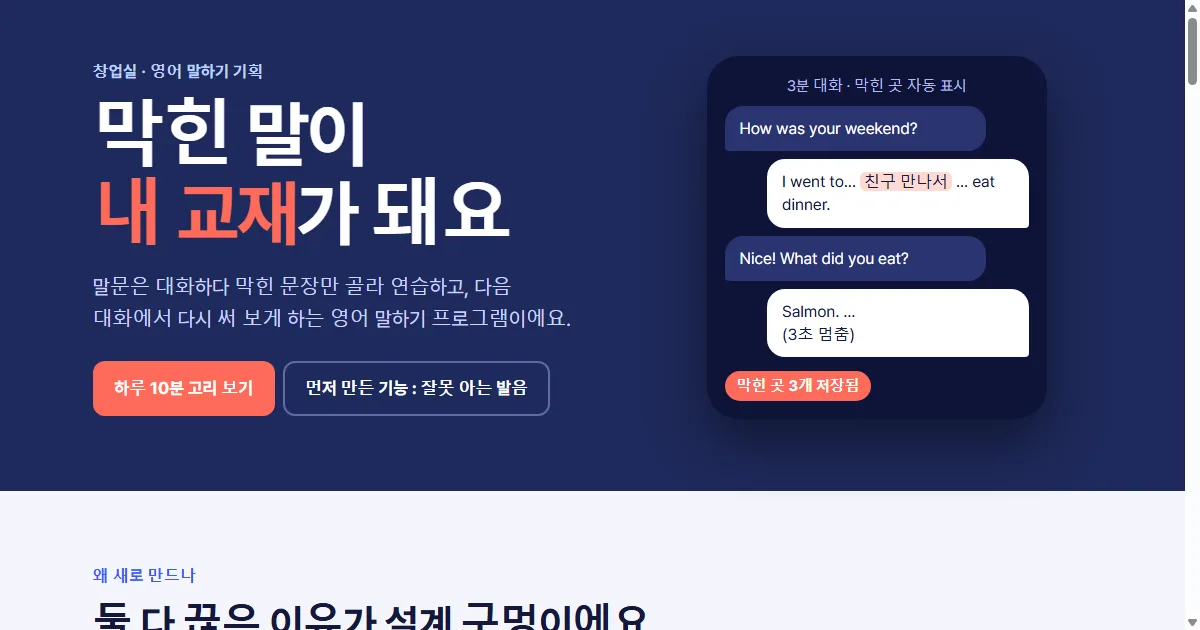
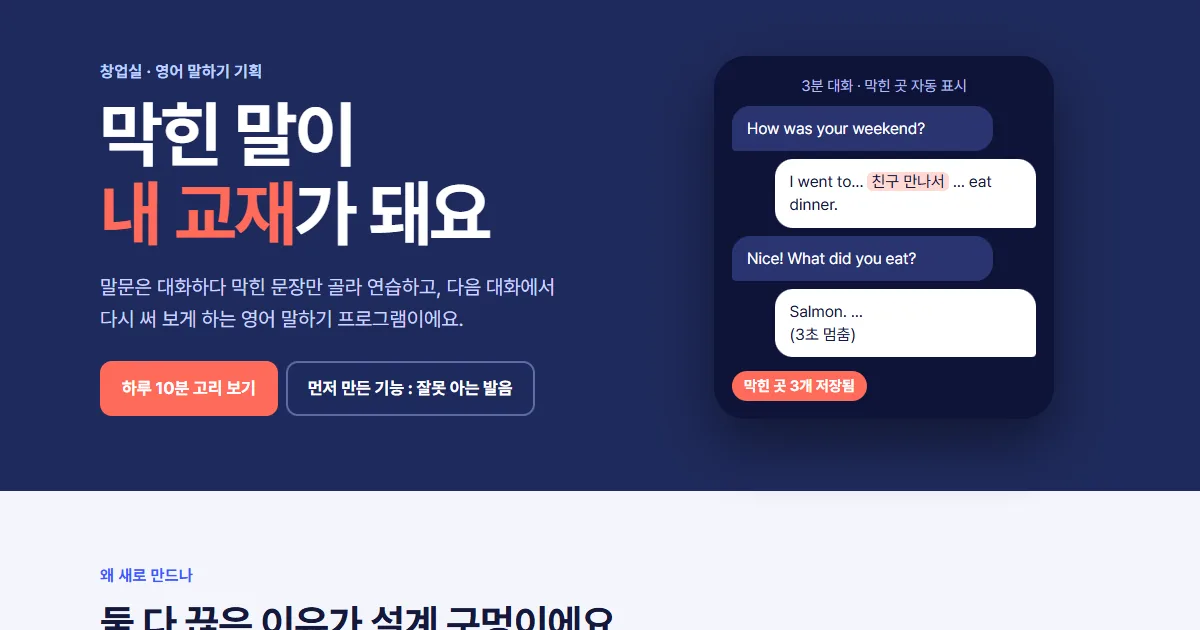
말문: 잘못 아는 발음 35단어(듣기·말해 보기·외운 단어 저장), 기획서 강세 예시 채움, 첫 화면 카드 좌우 번갈아 맞춤

diff --git a/malmun/pron/index.html b/malmun/pron/index.html
@@ -1,0 +1,185 @@
+<!doctype html>
+<html lang="ko">
+<head>
+<meta charset="utf-8">
+<meta name="viewport" content="width=device-width, initial-scale=1">
+<title>잘못 아는 발음 · 말문</title>
+<link rel="stylesheet" href="https://cdn.jsdelivr.net/gh/orioncactus/pretendard@v1.3.9/dist/web/variable/pretendardvariable-dynamic-subset.min.css">
+<link rel="stylesheet" href="https://fonts.googleapis.com/css2?family=IBM+Plex+Mono:wght@400;500&display=swap">
+<style>
+:root { --bg: #eef1f8; --card: #fff; --ink: #141722; --soft: #4a5068; --blue: #3557f5; --blue-bg: #e3e9ff; --red: #d93a40; --green: #13894f; --green-bg: #dcf3e6; --line: #d9deeb }
+@media (prefers-color-scheme: dark) { :root { --bg: #0f1118; --card: #1a1d28; --ink: #eef0f7; --soft: #a9afc4; --blue: #7d95ff; --blue-bg: #232b4d; --red: #ff6b70; --green: #45d08b; --green-bg: #173326; --line: #2c3142 } }
+* { box-sizing: border-box }
+body { margin: 0; min-height: 100vh; background: var(--bg); color: var(--ink); font: 400 17px/1.6 "Pretendard Variable", Pretendard, sans-serif; word-break: keep-all; -webkit-font-smoothing: antialiased }
+button { font: inherit; color: inherit; cursor: pointer; border: 0; background: none }
+main { max-width: 560px; margin: 0 auto; padding: 20px 16px 40px }
+header { display: flex; align-items: baseline; justify-content: space-between; gap: 12px }
+header a { color: var(--soft); text-decoration: none; font-weight: 600; font-size: 15px }
+h1 { margin: 0; font-size: 22px; font-weight: 750; letter-spacing: -.02em }
+.count { font: 500 14px "IBM Plex Mono", monospace; color: var(--soft) }
+.bar { height: 6px; margin: 14px 0 18px; background: var(--line); border-radius: 3px; overflow: hidden }
+.bar i { display: block; height: 100%; width: 0; background: var(--blue); transition: width .3s }
+.chips { display: flex; gap: 8px; overflow-x: auto; scrollbar-width: none; margin-bottom: 16px }
+.chips button { flex: none; padding: 7px 14px; border-radius: 99px; background: var(--card); font-weight: 600; font-size: 15px; color: var(--soft) }
+.chips button[aria-pressed=true] { background: var(--ink); color: var(--card) }
+.card { background: var(--card); border-radius: 22px; padding: 28px 24px 24px; box-shadow: 0 10px 30px -18px rgba(20, 30, 70, .35) }
+.tag { display: inline-block; padding: 3px 10px; border-radius: 6px; background: var(--blue-bg); color: var(--blue); font-weight: 700; font-size: 14px }
+.word { margin: 18px 0 2px; font-size: clamp(44px, 13vw, 64px); font-weight: 750; letter-spacing: -.03em; line-height: 1.05 }
+.word s { text-decoration: none; color: var(--red); opacity: .45 }
+.mean { color: var(--soft); font-weight: 500 }
+.ask { display: block; width: 100%; margin-top: 26px; padding: 16px; border-radius: 14px; background: var(--blue); color: #fff; font-weight: 700; font-size: 18px }
+.ans { margin-top: 22px; display: grid; gap: 14px }
+.ans[hidden], .ask[hidden] { display: none }
+.wrong { color: var(--red); font-size: 19px; font-weight: 600 }
+.wrong del { text-decoration-thickness: 2px }
+.right { display: flex; align-items: baseline; flex-wrap: wrap; gap: 6px 14px }
+.right strong { font-size: 34px; font-weight: 500; letter-spacing: -.02em }
+.right strong b { font-weight: 850; color: var(--blue) }
+.ipa { font: 400 16px "IBM Plex Mono", monospace; color: var(--soft) }
+.tip { margin: 0; padding: 12px 14px; border-radius: 12px; background: var(--bg); font-weight: 500 }
+.tools { display: flex; gap: 8px; flex-wrap: wrap }
+.tools button { display: inline-flex; align-items: center; gap: 6px; padding: 10px 16px; border-radius: 12px; background: var(--blue-bg); color: var(--blue); font-weight: 700 }
+.tools button.on { background: var(--red); color: #fff }
+.heard { margin: 0; font-weight: 600 }
+.heard:empty { display: none }
+.heard.ok { color: var(--green) }
+.heard.no { color: var(--red) }
+.next { display: grid; grid-template-columns: 1fr 1fr; gap: 10px; margin-top: 6px }
+.next button { padding: 15px; border-radius: 14px; font-weight: 700; font-size: 17px }
+.again { background: var(--bg) }
+.got { background: var(--green-bg); color: var(--green) }
+.done { text-align: center; padding: 40px 24px }
+.done p { font-size: 40px; font-weight: 800; margin: 0 0 4px; letter-spacing: -.03em }
+.done button { margin-top: 24px; padding: 14px 26px; border-radius: 14px; background: var(--blue); color: #fff; font-weight: 700 }
+</style>
+</head>
+<body>
+<main>
+  <header><h1>잘못 아는 발음</h1><a href="../plan/">말문</a></header>
+  <div class="bar"><i id="bar"></i></div>
+  <div class="chips" id="chips" role="group" aria-label="함정 종류"></div>
+  <section class="card" id="card" aria-live="polite"></section>
+  <p class="count" id="count"></p>
+</main>
+<script>
+// 데이터: [단어, 뜻, 흔히 읽는 법, 실제(굵게=[강세]), 발음기호(미국식), 종류, 외우는 요령]
+// 단어 속 (괄호) = 소리 안 나는 글자 / 줄어드는 소리
+const W = [
+  ["sa(l)mon", "연어", "살몬", "[새]먼", "ˈsæmən", "묵음", "l은 쓰기만 하고 소리는 없어요."],
+  ["recei(p)t", "영수증", "리시프트", "리[시]트", "rɪˈsiːt", "묵음", "p는 소리 없이 '리싯'에 가까워요."],
+  ["i(s)land", "섬", "아이슬랜드", "[아일]런드", "ˈaɪlənd", "묵음", "s는 소리 없어요. 아이슬란드(Iceland)와 달라요."],
+  ["debu(t)", "데뷔", "데뷰트", "데이[뷰]", "deɪˈbjuː", "묵음", "프랑스어에서 온 말이라 끝 t를 읽지 않아요."],
+  ["su(b)tle", "미묘한", "서브틀", "[서]틀", "ˈsʌtl", "묵음", "b는 소리 없어요."],
+  ["dou(b)t", "의심", "다우브트", "다웃", "daʊt", "묵음", "b는 소리 없어요. debt(빚, '뎃')도 같아요."],
+  ["mus(c)le", "근육", "머스클", "[머]슬", "ˈmʌsl", "묵음", "c는 소리 없어요. 홍합 mussel과 소리가 같아요."],
+  ["cas(t)le", "성", "캐스틀", "[캐]슬", "ˈkæsl", "묵음", "t는 소리 없어요. listen, whistle도 같아요."],
+  ["s(w)ord", "칼", "스워드", "소어드", "sɔːrd", "묵음", "w는 소리 없어요."],
+  ["We(d)n(e)sday", "수요일", "웨드네스데이", "[웬]즈데이", "ˈwenzdeɪ", "묵음", "d와 가운데 e를 건너뛰어 '웬즈'로 시작해요."],
+  ["ya(ch)t", "요트", "요트", "얏", "jɑːt", "외래어", "ch는 소리 없어요. '야'로 시작해요."],
+  ["label", "상표", "라벨", "[레이]블", "ˈleɪbl", "외래어", "a를 '에이'로 읽어요."],
+  ["allergy", "알레르기", "알레르기", "[앨]러지", "ˈælərdʒi", "외래어", "알레르기는 독일어 발음이에요."],
+  ["buffe(t)", "뷔페", "뷔페", "버[페이]", "bəˈfeɪ", "외래어", "끝 t는 소리 없고 뒤를 세게 읽어요."],
+  ["theme", "주제", "테마", "띰", "θiːm", "외래어", "th는 혀끝을 이 사이에 살짝 넣고 내는 소리예요."],
+  ["radio", "라디오", "라디오", "[레이]디오", "ˈreɪdioʊ", "외래어", "a를 '에이'로 읽어요."],
+  ["model", "모델", "모델", "[마]들", "ˈmɑːdl", "외래어", "o를 '아'에 가깝게 읽어요."],
+  ["vitamin", "비타민", "비타민", "[바이]터민", "ˈvaɪtəmɪn", "외래어", "i를 '아이'로 읽어요. 영국에선 '비터민'이에요."],
+  ["margarine", "마가린", "마가린", "[마]저린", "ˈmɑːrdʒərɪn", "외래어", "g를 'ㅈ' 소리로 읽어요."],
+  ["vinyl", "비닐", "비닐", "[바이]늘", "ˈvaɪnl", "외래어", "y를 '아이'로 읽어요."],
+  ["coco(a)", "코코아", "코코아", "[코우]코우", "ˈkoʊkoʊ", "외래어", "끝 a는 소리 없어요."],
+  ["ideology", "이념", "이데올로기", "아이디[알]러지", "ˌaɪdiˈɑːlədʒi", "외래어", "이데올로기는 독일어 발음이에요. i를 '아이'로 시작해요."],
+  ["ballet", "발레", "발레", "밸[레이]", "bæˈleɪ", "외래어", "끝 t는 소리 없고 뒤를 세게 읽어요."],
+  ["banana", "바나나", "바나나", "버[내]너", "bəˈnænə", "강세", "가운데만 세게, 앞뒤는 약하게 '어'로 흘려요."],
+  ["tomato", "토마토", "토마토", "터[메이]토", "təˈmeɪtoʊ", "강세", "가운데 '메이'를 세게 읽어요."],
+  ["hotel", "호텔", "호텔", "호우[텔]", "hoʊˈtel", "강세", "앞이 아니라 뒤 '텔'을 세게 읽어요."],
+  ["dessert", "디저트", "디저트", "디[저]트", "dɪˈzɜːrt", "강세", "뒤를 세게. 앞을 세게 '데저트'라 하면 사막(desert)이에요."],
+  ["garage", "차고", "개라지", "거[라]지", "ɡəˈrɑːʒ", "강세", "뒤 '라'를 세게, 앞은 '거'로 약하게요."],
+  ["photographer", "사진작가", "포토그래퍼", "퍼[타]그러퍼", "fəˈtɑːɡrəfər", "강세", "photo(포우토우)와 달리 두 번째를 세게 읽어요."],
+  ["comf(or)table", "편한", "컴포터블", "[컴]프터블", "ˈkʌmftərbl", "음절", "or가 빠져 3박자로 읽어요."],
+  ["veg(e)table", "채소", "베지터블", "[베]쥐터블", "ˈvedʒtəbl", "음절", "가운데 e가 빠져 3박자로 읽어요."],
+  ["choc(o)late", "초콜릿", "초콜릿", "[차]클릿", "ˈtʃɑːklət", "음절", "가운데 o가 빠져 2박자로 읽어요."],
+  ["diff(e)rent", "다른", "디퍼런트", "[디]프런트", "ˈdɪfrənt", "음절", "가운데 e가 빠져 2박자로 읽어요."],
+  ["fam(i)ly", "가족", "패밀리", "[팸]리", "ˈfæmli", "음절", "가운데 i가 거의 빠져 2박자로 읽어요."],
+  ["strike", "파업·치다", "스트라이크", "스트라잌", "straɪk", "음절", "'으'를 넣지 않고 한 박자에 붙여 읽어요. 5박자가 아니라 1박자예요."],
+];
+const TYPES = ["전체", "묵음", "외래어", "강세", "음절"];
+const NAMES = { 묵음: "소리 없는 글자", 외래어: "외래어와 달라요", 강세: "세게 읽는 곳", 음절: "박자 수" };
+const KEY = "malmun-pron-got";
+let got = new Set(); try { got = new Set(JSON.parse(localStorage.getItem(KEY)) || []) } catch {}
+const save = () => { try { localStorage.setItem(KEY, JSON.stringify([...got])) } catch {} };
+const plain = w => w.replace(/[()]/g, "");
+const $ = id => document.getElementById(id);
+let type = "전체", queue = [], total = 0;
+
+function start() {
+  const pool = W.filter(w => (type === "전체" || w[5] === type) && !got.has(plain(w[0])));
+  queue = pool.sort(() => Math.random() - .5); total = pool.length; show();
+}
+function show() {
+  $("bar").style.width = total ? (100 * (total - queue.length) / total) + "%" : "100%";
+  $("count").textContent = total ? `${total - queue.length} / ${total}` : "";
+  const c = $("card");
+  if (!queue.length) {
+    const n = W.filter(w => type === "전체" || w[5] === type).length;
+    c.innerHTML = `<div class="done"><p>${n}개 다 외웠어요</p><button id="reset">처음부터 다시</button></div>`;
+    $("reset").onclick = () => { W.forEach(w => (type === "전체" || w[5] === type) && got.delete(plain(w[0]))); save(); start() };
+    return;
+  }
+  const [w, mean, wrong, right, ipa, t, tip] = queue[0];
+  c.innerHTML = `<span class="tag">${NAMES[t]}</span>
+    <div class="word" lang="en">${w.replace(/\((.+?)\)/g, "<span class=q>$1</span>")}</div>
+    ${mean === wrong ? "" : `<div class="mean">${mean}</div>`}
+    <button class="ask" id="ask">어떻게 읽을까요?</button>
+    <div class="ans" id="ans" hidden>
+      <div class="wrong"><del>${wrong}</del> 아니고</div>
+      <div class="right"><strong>${right.replace(/\[(.+?)\]/g, "<b>$1</b>")}</strong><span class="ipa">/${ipa}/</span></div>
+      <p class="tip">${tip}</p>
+      <div class="tools"><button id="say">▶ 듣기</button><button id="slow">▶ 천천히</button>${Rec ? '<button id="mic">● 말해 보기</button>' : ""}</div>
+      <p class="heard" id="heard"></p>
+      <div class="next"><button class="again" id="again">다시 볼래요</button><button class="got" id="got">외웠어요</button></div>
+    </div>`;
+  $("ask").onclick = () => {
+    $("ask").hidden = true; $("ans").hidden = false;
+    c.querySelectorAll(".q").forEach(q => q.outerHTML = `<s>${q.textContent}</s>`);
+    speak(1);
+  };
+  $("say").onclick = () => speak(1);
+  $("slow").onclick = () => speak(.6);
+  if (Rec) $("mic").onclick = listen;
+  $("again").onclick = () => { queue.splice(Math.min(3, queue.length), 0, queue.shift()); show() };
+  $("got").onclick = () => { got.add(plain(w)); save(); queue.shift(); show() };
+}
+function speak(rate) {
+  speechSynthesis.cancel();
+  const u = new SpeechSynthesisUtterance(plain(queue[0][0]));
+  u.lang = "en-US"; u.rate = rate;
+  const v = speechSynthesis.getVoices().find(v => v.lang === "en-US");
+  if (v) u.voice = v;
+  speechSynthesis.speak(u);
+}
+const Rec = window.SpeechRecognition || window.webkitSpeechRecognition;
+function listen() {
+  const target = plain(queue[0][0]).toLowerCase(), mic = $("mic"), out = $("heard");
+  const r = new Rec(); r.lang = "en-US"; r.maxAlternatives = 5;
+  mic.classList.add("on"); mic.textContent = "● 듣는 중"; out.className = "heard"; out.textContent = "";
+  r.onresult = e => {
+    const alts = [...e.results[0]].map(a => a.transcript.trim());
+    const ok = alts.some(a => a.toLowerCase().split(/\W+/).includes(target));
+    out.className = "heard " + (ok ? "ok" : "no");
+    out.textContent = ok ? "잘 알아들었어요" : `'${alts[0]}'(으)로 들렸어요`;
+  };
+  r.onerror = e => { out.className = "heard no"; out.textContent = e.error === "not-allowed" ? "마이크를 허용해 주세요" : "다시 말해 주세요" };
+  r.onend = () => { mic.classList.remove("on"); mic.textContent = "● 말해 보기" };
+  r.start();
+}
+$("chips").innerHTML = TYPES.map(t => `<button aria-pressed="${t === type}">${t === "전체" ? t : NAMES[t]}</button>`).join("");
+$("chips").onclick = e => {
+  const b = e.target.closest("button"); if (!b) return;
+  type = TYPES[[...$("chips").children].indexOf(b)];
+  [...$("chips").children].forEach(x => x.setAttribute("aria-pressed", x === b));
+  start();
+};
+speechSynthesis.getVoices();
+start();
+</script>
+</body>
+</html>

diff --git a/index.html b/index.html
@@ -414,16 +414,6 @@ figcaption { margin-top: 10px; color: var(--muted) }
   </article>
 
   <article class="g2 grid">
-    <a class="art mask" href="mardi/motion-study/"><img src="hub/shots/mardi-motion.webp" alt="마디 캐릭터가 달리다 뛰어오른 게임 화면" width="1280" height="800" loading="lazy"></a>
-    <div class="txt">
-      <h3 class="rise">마디 움직임 비교</h3>
-      <p class="rise" style="--i:1">마디 캐릭터의 조정값 15개를 사람 모캡 154개, 논문, 디아블로·로스트아크, 엘든 링·몬헌 같은 3인칭 액션 게임과 나란히 놓은 표. 사람 숫자, 게임별 타이밍, 아직 없는 동작까지.</p>
-      <p class="meta mono rise" style="--i:2">모션캡처 측정 · 게임 프레임 측정 · 조사</p>
-      <a class="more rise" style="--i:3" href="mardi/motion-study/">비교표 보기 <span class="ic" data-icon="arrow-right" data-size="18">→</span></a>
-    </div>
-  </article>
-
-  <article class="g2 flip grid">
     <a class="art mask" href="malmun/plan/"><img src="hub/shots/malmun.webp" alt="말문 기획서 첫 화면, 영어 대화에서 막힌 곳이 저장되는 모습" width="1200" height="630" loading="lazy"></a>
     <div class="txt">
       <h3 class="rise">말문</h3>
@@ -434,6 +424,16 @@ figcaption { margin-top: 10px; color: var(--muted) }
   </article>
 
   <article class="g2 flip grid">
+    <a class="art mask" href="mardi/motion-study/"><img src="hub/shots/mardi-motion.webp" alt="마디 캐릭터가 달리다 뛰어오른 게임 화면" width="1280" height="800" loading="lazy"></a>
+    <div class="txt">
+      <h3 class="rise">마디 움직임 비교</h3>
+      <p class="rise" style="--i:1">마디 캐릭터의 조정값 15개를 사람 모캡 154개, 논문, 디아블로·로스트아크, 엘든 링·몬헌 같은 3인칭 액션 게임과 나란히 놓은 표. 사람 숫자, 게임별 타이밍, 아직 없는 동작까지.</p>
+      <p class="meta mono rise" style="--i:2">모션캡처 측정 · 게임 프레임 측정 · 조사</p>
+      <a class="more rise" style="--i:3" href="mardi/motion-study/">비교표 보기 <span class="ic" data-icon="arrow-right" data-size="18">→</span></a>
+    </div>
+  </article>
+
+  <article class="g2 grid">
     <a class="art mask" href="jobmap/"><img src="hub/shots/jobmap-cover.webp" alt="학과 진로 지도 첫 장" width="1200" height="630" loading="lazy"></a>
     <div class="txt">
       <h3 class="rise">학과 진로 지도</h3>
@@ -443,7 +443,7 @@ figcaption { margin-top: 10px; color: var(--muted) }
     </div>
   </article>
 
-  <article class="g2 grid">
+  <article class="g2 flip grid">
     <a class="art mask" href="ffb-wheel/"><img src="hub/shots/ffb-cover.webp" alt="포스 피드백 레이싱 휠 발표 첫 장" width="1280" height="721" loading="lazy"></a>
     <div class="txt">
       <h3 class="rise">레이싱 휠</h3>
@@ -453,7 +453,7 @@ figcaption { margin-top: 10px; color: var(--muted) }
     </div>
   </article>
 
-  <article class="g2 flip grid">
+  <article class="g2 grid">
     <a class="art mask" href="ffb-wheel/parts/"><img src="hub/shots/ffb-parts.webp" alt="레이싱 휠 주차별 파트 분배 첫 화면" width="1280" height="800" loading="lazy"></a>
     <div class="txt">
       <h3 class="rise">주차별 파트 분배</h3>
@@ -463,7 +463,7 @@ figcaption { margin-top: 10px; color: var(--muted) }
     </div>
   </article>
 
-  <article class="g2 grid">
+  <article class="g2 flip grid">
     <a class="art mask" href="ffb-wheel/pedal/"><img src="hub/shots/ffb-pedal.webp" alt="집성목으로 만든 액셀 페달 3D 모델과 부품 이름표" width="1280" height="800" loading="lazy"></a>
     <div class="txt">
       <h3 class="rise">액셀 페달 3D</h3>
@@ -473,7 +473,7 @@ figcaption { margin-top: 10px; color: var(--muted) }
     </div>
   </article>
 
-  <article class="g2 flip grid">
+  <article class="g2 grid">
     <a class="art mask" href="ffb-report/"><img src="hub/shots/ffb-report.webp" alt="창공설 주차 보고서 첫 화면(흐리게)" width="1280" height="800" loading="lazy"></a>
     <div class="txt">
       <h3 class="rise">주차 보고서</h3>

diff --git a/malmun/plan/index.html b/malmun/plan/index.html
@@ -138,7 +138,7 @@ footer{padding:28px 0;color:var(--sub);font-size:16px;text-align:center}
   <div class="r">발음 교정</div>
   <div data-l="듀오링고" class="no">약함</div><div data-l="말해보카" class="no">정확함</div><div data-l="스픽" class="no">AI 피드백</div><div data-l="말문" class="me">정확함 + 자주 틀리는 유형별</div>
   <div class="r">진짜 대화</div>
-  <div data-l="듀오링고" class="no">영상통화</div><div data-l="말해보카" class="no">없음</div><div data-l="스픽" class="no">AI 대화</div><div data-l="말문" class="me">AI 대화 + 4주마다 사람 앞 시합</div>
+  <div data-l="듀오링고" class="no">영상통화</div><div data-l="말해보카" class="no">중심 기능 아님</div><div data-l="스픽" class="no">AI 대화</div><div data-l="말문" class="me">AI 대화 + 4주마다 사람 앞 시합</div>
  </div>
 </div></section>
 
@@ -207,7 +207,7 @@ footer{padding:28px 0;color:var(--sub);font-size:16px;text-align:center}
 </div></section>
 
 <section><div class="w">
- <p class="eb">기능 · 먼저 만드는 중</p>
+ <p class="eb">기능 · 먼저 만든 것</p>
  <h2>우리가 잘못 알고 있는 발음</h2>
  <p class="lede">많이들 틀리게 읽는 단어를 함정 유형으로 묶어서, 정답 발음을 듣고 말해 보며 외워요.</p>
  <div class="pron">
@@ -217,7 +217,7 @@ footer{padding:28px 0;color:var(--sub);font-size:16px;text-align:center}
    <div class="w1"><b>island</b><span class="ok">아일런드</span><span class="x">s 묵음</span></div>
    <div class="w1"><b>debut</b><span class="ok">데이뷰</span><span class="x">t 묵음</span></div>
    <div class="w1"><b>subtle</b><span class="ok">서틀</span><span class="x">b 묵음</span></div>
-   <div class="w1"><b>Wednesday</b><span class="ok">웬즈데이</span><span class="x">d 묵음</span></div>
+   <div class="w1"><b>Wednesday</b><span class="ok">웬즈데이</span><span class="x">d·가운데 e 묵음</span></div>
   </div>
   <div class="trap"><h3><i>2</i>외래어 표기와 다른 발음</h3>
    <div class="w1"><b>label</b><span class="ok">레이블</span><span class="x">라벨이 아니에요</span></div>
@@ -230,12 +230,15 @@ footer{padding:28px 0;color:var(--sub);font-size:16px;text-align:center}
   <div class="trap"><h3><i>3</i>음절 수</h3>
    <div class="w1"><b>comfortable</b><span class="ok">컴프터블</span><span class="x">4음절로 읽기 쉬운데 3음절이에요</span></div>
    <div class="w1"><b>vegetable</b><span class="ok">베쥐터블</span><span class="x">3음절이에요</span></div>
+   <div class="w1"><b>chocolate</b><span class="ok">차클릿</span><span class="x">2음절이에요</span></div>
   </div>
   <div class="trap"><h3><i>4</i>강세 위치</h3>
-   <p style="color:var(--sub)">단어마다 세게 읽는 자리가 달라요. 강세 예시는 기능을 만들며 하나씩 확인해서 채워요.</p>
+   <div class="w1"><b>banana</b><span class="ok">버내너</span><span class="x">가운데를 세게</span></div>
+   <div class="w1"><b>hotel</b><span class="ok">호우텔</span><span class="x">뒤를 세게</span></div>
+   <div class="w1"><b>dessert</b><span class="ok">디저트</span><span class="x">뒤를 세게, 앞을 세게 읽으면 사막(desert)</span></div>
   </div>
  </div>
- <div class="go"><a class="btn" href="../pron/">만들고 있는 페이지 보기</a><p>단어마다 정답 발음 듣기와 말해 보기가 붙어요.</p></div>
+ <div class="go"><a class="btn" href="../pron/">35단어 외워 보기</a><p>단어마다 정답 발음 듣기와 말해 보기가 붙어요.</p></div>
 </div></section>
 
 <section style="background:var(--white)"><div class="w">
